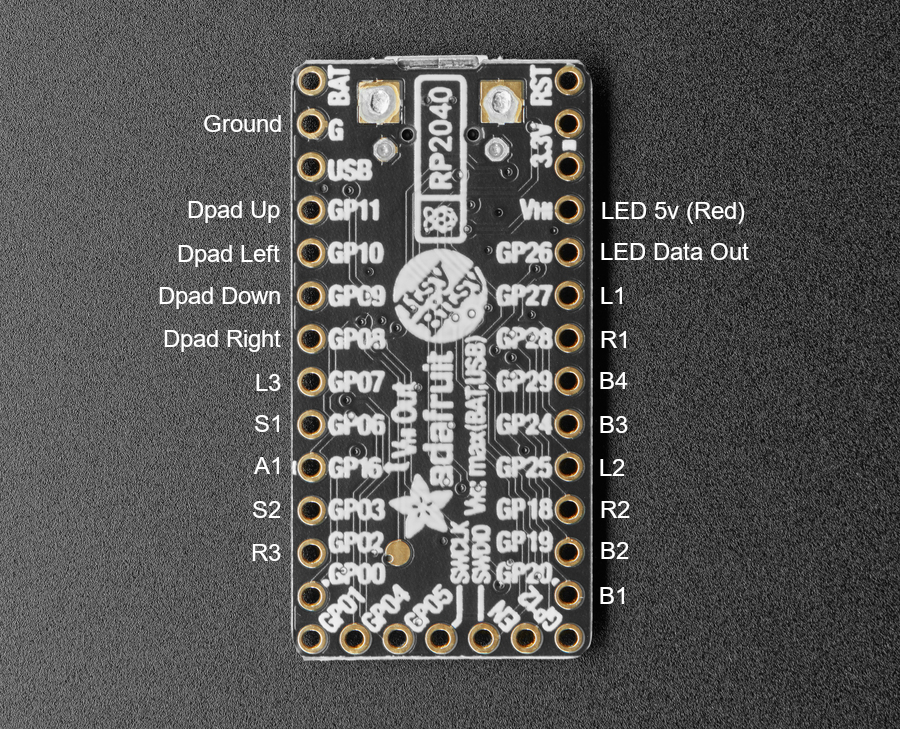
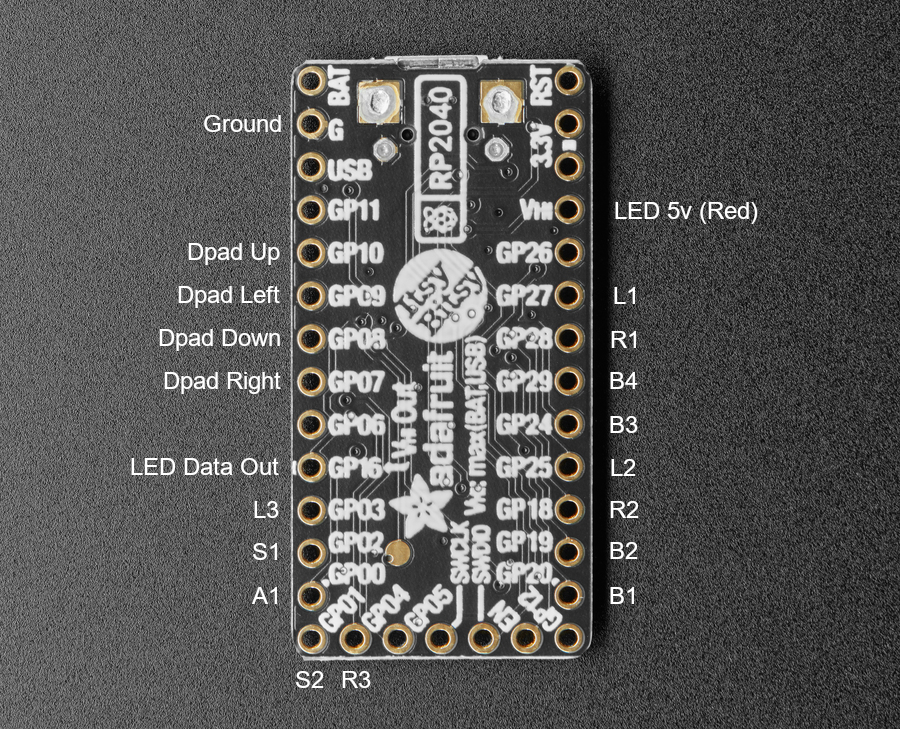
Update Fightboard pin mapping

diff --git a/configs/Fightboard/BoardConfig.h b/configs/Fightboard/BoardConfig.h
@@ -15,10 +15,10 @@
 #include "Pixel.hpp"
 #include "enums.h"
 
-#define PIN_DPAD_UP     11
-#define PIN_DPAD_DOWN   9
-#define PIN_DPAD_LEFT   10
-#define PIN_DPAD_RIGHT  8
+#define PIN_DPAD_UP     10
+#define PIN_DPAD_DOWN   8
+#define PIN_DPAD_LEFT   9
+#define PIN_DPAD_RIGHT  7
 #define PIN_BUTTON_B1   20
 #define PIN_BUTTON_B2   19
 #define PIN_BUTTON_B3   24
@@ -27,16 +27,16 @@
 #define PIN_BUTTON_R1   28
 #define PIN_BUTTON_L2   25
 #define PIN_BUTTON_R2   18
-#define PIN_BUTTON_S1   6
-#define PIN_BUTTON_S2   3
-#define PIN_BUTTON_L3   7
-#define PIN_BUTTON_R3   2
-#define PIN_BUTTON_A1   14
-#define PIN_BUTTON_A2   1
+#define PIN_BUTTON_S1   2
+#define PIN_BUTTON_S2   1
+#define PIN_BUTTON_L3   3
+#define PIN_BUTTON_R3   4
+#define PIN_BUTTON_A1   0
+#define PIN_BUTTON_A2   5
 
 #define DEFAULT_SOCD_MODE SOCD_MODE_NEUTRAL
 
-#define BOARD_LEDS_PIN 26
+#define BOARD_LEDS_PIN 14
 
 #define LED_BRIGHTNESS_MAXIMUM 255
 #define LED_BRIGHTNESS_STEPS 5
